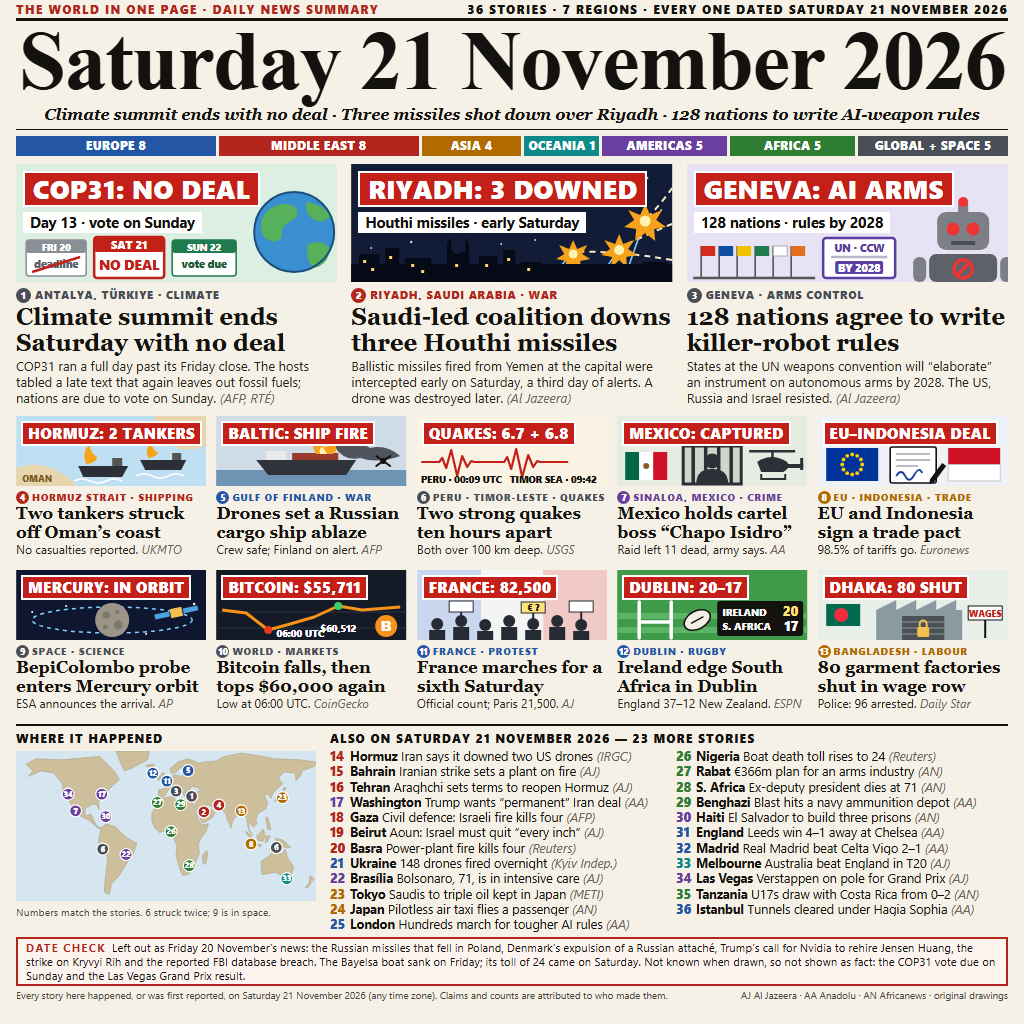
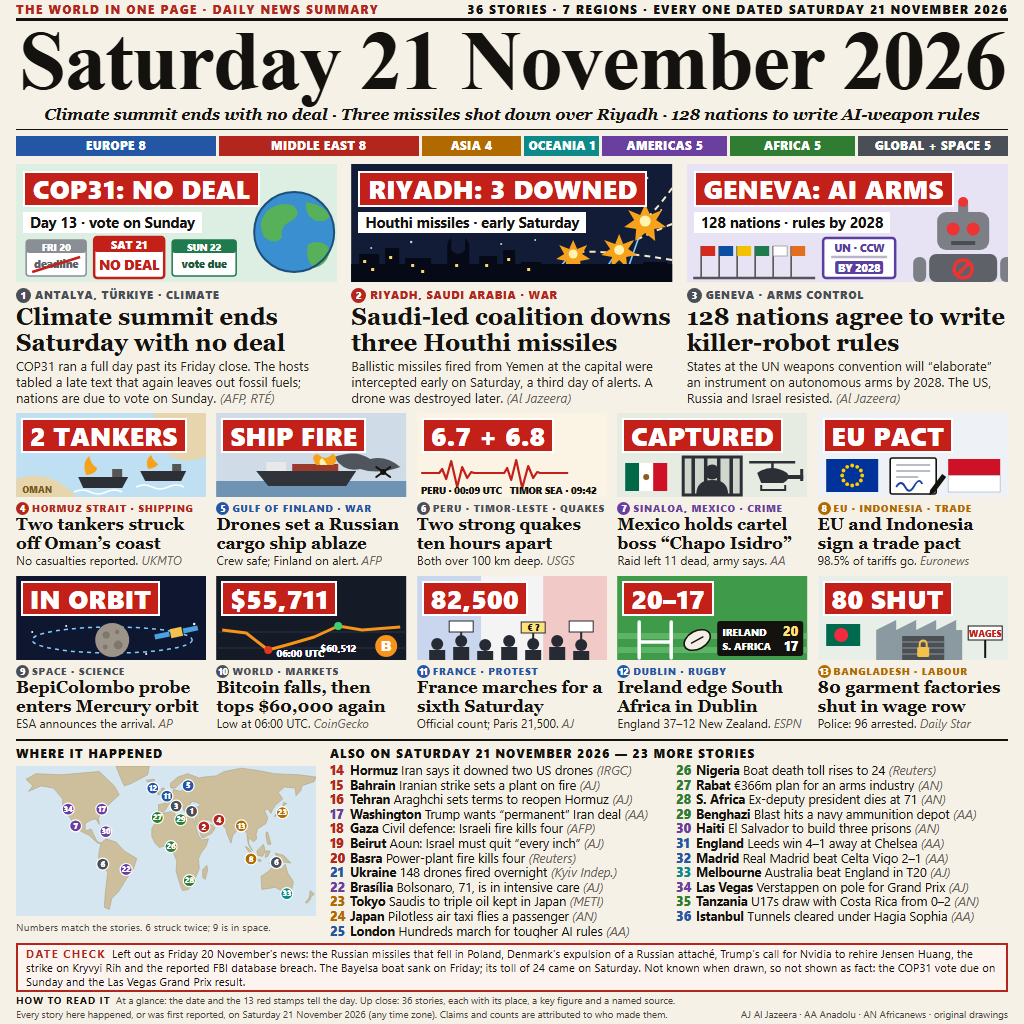
Large one-word stamps on the ten picture tiles, taller pictures, reader's guide
Each tile now carries a 26px stamp that reads at thumbnail size; the place
stays in the tag line under the picture.

Changed region(s): [[0.0, 0.4062, 1.0, 1.0]]

diff --git a/src/page.html b/src/page.html
@@ -35,7 +35,7 @@
   .src { color: #6a6459; font-style: italic; }
 
   /* Leads */
-  .leads { height: 246px; margin-top: 8px; display: flex; gap: 14px; }
+  .leads { height: 243px; margin-top: 8px; display: flex; gap: 14px; }
   .lead { flex: 1; min-width: 0; }
   .lead .pic { height: 118px; }
   .lead .stamp { font-size: 26px; line-height: 32px; padding: 0 8px; }
@@ -46,17 +46,17 @@
   .lead p { font-size: 13px; line-height: 16px; margin-top: 2px; color: #26231e; }
 
   /* Tiles */
-  .tiles { height: 300px; margin-top: 6px; display: grid; grid-template-columns: repeat(5, 1fr); grid-template-rows: 146px 146px; gap: 8px 10px; }
+  .tiles { height: 318px; margin-top: 6px; display: grid; grid-template-columns: repeat(5, 1fr); grid-template-rows: 155px 155px; gap: 8px 10px; }
   .tile { min-width: 0; }
-  .tile .pic { height: 70px; }
-  .tile .stamp { font-size: 15px; line-height: 21px; padding: 0 5px; left: 5px; top: 5px; }
+  .tile .pic { height: 84px; }
+  .tile .stamp { font-size: 26px; line-height: 31px; padding: 0 7px; left: 5px; top: 5px; }
   .tile .tag { font-size: 9.6px; line-height: 14px; margin-top: 4px; }
   .tile .n { width: 13px; height: 13px; line-height: 13px; font-size: 8.5px; margin-right: 3px; }
   .tile h3 { font-family: Georgia, serif; font-size: 17px; line-height: 19px; height: 38px; overflow: hidden; }
   .tile p { font-size: 12px; line-height: 15px; white-space: nowrap; overflow: hidden; color: #26231e; }
 
   /* Map and briefs */
-  .bottom { height: 208px; margin-top: 8px; border-top: 2px solid #14120e; padding-top: 5px; display: flex; gap: 14px; }
+  .bottom { height: 199px; margin-top: 8px; border-top: 2px solid #14120e; padding-top: 5px; display: flex; gap: 14px; }
   .bottom h4 { font-size: 11.5px; line-height: 15px; letter-spacing: 1.4px; font-weight: 800; }
   .mapbox { width: 300px; flex: none; }
   .mapbox svg { display: block; width: 300px; height: 150px; margin-top: 5px; }
@@ -64,14 +64,16 @@
   .briefs { flex: 1; min-width: 0; }
   .cols { display: flex; gap: 14px; margin-top: 2px; }
   .cols ul { flex: 1; min-width: 0; list-style: none; }
-  .cols li { font-size: 12.6px; line-height: 15.3px; white-space: nowrap; overflow: hidden; }
+  .cols li { font-size: 12.6px; line-height: 14.6px; white-space: nowrap; overflow: hidden; }
   .cols li i { font-style: normal; font-weight: 800; color: var(--c); display: inline-block; width: 20px; }
   .cols li b { font-weight: 700; }
 
   /* Date check and footer */
   .check { height: 49px; margin-top: 5px; border: 2px solid #b3261e; background: #fdf3ef; padding: 2px 8px; font-size: 11.4px; line-height: 14.2px; overflow: hidden; }
   .check b { color: #b3261e; letter-spacing: 1.2px; }
-  .foot { height: 17px; display: flex; justify-content: space-between; align-items: center; font-size: 9.8px; color: #4b463d; white-space: nowrap; }
+  .foot { height: 28px; margin-top: 1px; font-size: 9.8px; line-height: 13.5px; color: #4b463d; white-space: nowrap; }
+  .foot .row { display: flex; justify-content: space-between; }
+  .foot b { color: #14120e; letter-spacing: 1px; }
 </style>
 </head>
 <body>
@@ -178,105 +180,105 @@
 <div class="tiles">
   <!-- 4 Hormuz -->
   <div class="tile" style="--c:var(--me)">
-    <div class="pic"><svg viewBox="0 0 190 70">
-      <rect width="190" height="70" fill="#bfe0f2"/>
-      <path d="M190 0 V30 Q168 38 152 28 Q140 18 138 0z" fill="#e6d5ad"/><path d="M0 70 V52 Q24 44 44 56 Q56 64 60 70z" fill="#e6d5ad"/>
+    <div class="pic"><svg viewBox="0 -14 190 84">
+      <rect y="-14" width="190" height="84" fill="#bfe0f2"/>
+      <path d="M190 -14 V30 Q168 38 152 28 Q140 18 138 -14z" fill="#e6d5ad"/><path d="M0 70 V52 Q24 44 44 56 Q56 64 60 70z" fill="#e6d5ad"/>
       <text x="6" y="66" font-size="9" font-weight="800" fill="#7a5a1f" font-family="Segoe UI, Arial">OMAN</text>
       <path d="M62 50 h50 l-6 11 h-39z" fill="#2c2f36"/><rect x="96" y="42" width="10" height="8" fill="#555"/>
       <path d="M124 44 h46 l-5 10 h-36z" fill="#2c2f36"/><rect x="156" y="37" width="9" height="7" fill="#555"/>
       <path d="M70 48 q-5 -12 3 -19 q2 9 8 12 q-1 6 -11 7z" fill="#f7a21b"/><path d="M132 42 q-4 -9 3 -14 q2 6 7 9 q-2 4 -10 5z" fill="#f7a21b"/>
       <path d="M58 65 q8 -4 16 0 t16 0 t16 0 M120 60 q8 -4 16 0 t16 0 t16 0" stroke="#fff" stroke-width="1.6" fill="none"/>
-    </svg><div class="stamp">HORMUZ: 2 TANKERS</div></div>
+    </svg><div class="stamp">2 TANKERS</div></div>
     <div class="tag"><span class="n">4</span>HORMUZ STRAIT · SHIPPING</div>
     <h3>Two tankers struck off Oman’s coast</h3>
     <p>No casualties reported. <span class="src">UKMTO</span></p>
   </div>
   <!-- 5 Gulf of Finland -->
   <div class="tile" style="--c:var(--eu)">
-    <div class="pic"><svg viewBox="0 0 190 70">
-      <rect width="190" height="70" fill="#cfdbe6"/><rect y="54" width="190" height="16" fill="#6f93b3"/>
+    <div class="pic"><svg viewBox="0 -14 190 84">
+      <rect y="-14" width="190" height="84" fill="#cfdbe6"/><rect y="54" width="190" height="16" fill="#6f93b3"/>
       <path d="M118 30 q22 -8 36 2 q16 -4 30 8 q-22 8 -40 2 q-16 4 -26 -12z" fill="#3a3d44" opacity=".85"/>
       <path d="M40 44 h100 l-10 15 h-78z" fill="#30333a"/><rect x="50" y="35" width="20" height="9" fill="#e9e9e9"/><rect x="76" y="37" width="46" height="7" fill="#9a3b2e"/>
       <path d="M100 38 q-7 -10 2 -11 q3 4 8 4 q7 -3 6 -5 q8 6 1 12z" fill="#f7a21b"/><path d="M104 38 q-2 -5 2 -7 q3 3 5 7z" fill="#fff3b0"/>
       <g stroke="#14120e" stroke-width="2" stroke-linecap="round"><path d="M160 40 l14 10 M174 40 l-14 10"/></g><circle cx="167" cy="45" r="3" fill="#14120e"/>
-    </svg><div class="stamp">BALTIC: SHIP FIRE</div></div>
+    </svg><div class="stamp">SHIP FIRE</div></div>
     <div class="tag"><span class="n">5</span>GULF OF FINLAND · WAR</div>
     <h3>Drones set a Russian cargo ship ablaze</h3>
     <p>Crew safe; Finland on alert. <span class="src">AFP</span></p>
   </div>
   <!-- 6 Quakes -->
   <div class="tile" style="--c:var(--gl)">
-    <div class="pic"><svg viewBox="0 0 190 70">
-      <rect width="190" height="70" fill="#fbf3e3"/>
+    <div class="pic"><svg viewBox="0 -14 190 84">
+      <rect y="-14" width="190" height="84" fill="#fbf3e3"/>
       <path d="M4 46 h18 l3 -4 l4 10 l5 -18 l6 26 l5 -20 l5 11 l4 -6 l3 1 h30 l3 -5 l4 12 l5 -20 l6 28 l6 -22 l5 12 l4 -6 l3 1 h28" stroke="#c4201a" stroke-width="2.2" fill="none" stroke-linejoin="round"/>
       <g font-family="Segoe UI, Arial" font-weight="800" font-size="9.5" text-anchor="middle" fill="#14120e">
         <text x="44" y="67">PERU · 00:09 UTC</text><text x="136" y="67">TIMOR SEA · 09:42</text>
       </g>
-    </svg><div class="stamp">QUAKES: 6.7 + 6.8</div></div>
+    </svg><div class="stamp">6.7 + 6.8</div></div>
     <div class="tag"><span class="n">6</span>PERU · TIMOR-LESTE · QUAKES</div>
     <h3>Two strong quakes ten hours apart</h3>
     <p>Both over 100 km deep. <span class="src">USGS</span></p>
   </div>
   <!-- 7 Mexico -->
   <div class="tile" style="--c:var(--am)">
-    <div class="pic"><svg viewBox="0 0 190 70">
-      <rect width="190" height="70" fill="#e6ece2"/>
+    <div class="pic"><svg viewBox="0 -14 190 84">
+      <rect y="-14" width="190" height="84" fill="#e6ece2"/>
       <rect x="8" y="36" width="14" height="28" fill="#006847"/><rect x="22" y="36" width="14" height="28" fill="#fff"/><rect x="36" y="36" width="14" height="28" fill="#ce1126"/><circle cx="29" cy="50" r="3" fill="#8a5a1f"/>
       <rect x="66" y="30" width="58" height="38" fill="#cfd6cc" stroke="#2c2f36" stroke-width="3"/>
       <circle cx="95" cy="45" r="7.5" fill="#2c2f36"/><path d="M79 68 q0 -15 16 -15 q16 0 16 15z" fill="#2c2f36"/>
       <g stroke="#2c2f36" stroke-width="3.5"><path d="M76 30 V68 M88.5 30 V68 M101.5 30 V68 M114 30 V68"/></g>
       <g fill="#2c2f36"><path d="M140 46 q14 -10 30 0 q4 6 -4 10 h-22z"/><rect x="166" y="48" width="20" height="4"/><rect x="183" y="42" width="3" height="12"/><rect x="132" y="34" width="46" height="2.5"/><rect x="154" y="35" width="2.5" height="8"/><path d="M144 58 v5 h24 v-5" fill="none" stroke="#2c2f36" stroke-width="2"/></g>
-    </svg><div class="stamp">MEXICO: CAPTURED</div></div>
+    </svg><div class="stamp">CAPTURED</div></div>
     <div class="tag"><span class="n">7</span>SINALOA, MEXICO · CRIME</div>
     <h3>Mexico holds cartel boss “Chapo Isidro”</h3>
     <p>Raid left 11 dead, army says. <span class="src">AA</span></p>
   </div>
   <!-- 8 EU-Indonesia -->
   <div class="tile" style="--c:var(--as)">
-    <div class="pic"><svg viewBox="0 0 190 70">
-      <rect width="190" height="70" fill="#eef1f6"/>
+    <div class="pic"><svg viewBox="0 -14 190 84">
+      <rect y="-14" width="190" height="84" fill="#eef1f6"/>
       <rect x="8" y="32" width="52" height="33" fill="#003399"/>
       <g fill="#ffcc00"><circle cx="34" cy="38.5" r="1.9"/><circle cx="39" cy="39.8" r="1.9"/><circle cx="42.7" cy="43.5" r="1.9"/><circle cx="44" cy="48.5" r="1.9"/><circle cx="42.7" cy="53.5" r="1.9"/><circle cx="39" cy="57.2" r="1.9"/><circle cx="34" cy="58.5" r="1.9"/><circle cx="29" cy="57.2" r="1.9"/><circle cx="25.3" cy="53.5" r="1.9"/><circle cx="24" cy="48.5" r="1.9"/><circle cx="25.3" cy="43.5" r="1.9"/><circle cx="29" cy="39.8" r="1.9"/></g>
       <rect x="130" y="32" width="52" height="16.5" fill="#ce1126"/><rect x="130" y="48.5" width="52" height="16.5" fill="#fff" stroke="#b9bcc4" stroke-width=".8"/>
       <rect x="72" y="31" width="46" height="36" rx="2" fill="#fff" stroke="#14120e" stroke-width="1.6"/>
       <path d="M78 38 h34 M78 44 h34 M78 50 h22" stroke="#b9bcc4" stroke-width="2"/><path d="M78 60 q5 -8 9 0 t9 -1 t8 -2" stroke="#1b3fa0" stroke-width="1.8" fill="none"/>
       <path d="M112 63 l12 -16 l4 3 l-12 16 l-5 2z" fill="#14120e"/>
-    </svg><div class="stamp">EU–INDONESIA DEAL</div></div>
+    </svg><div class="stamp">EU PACT</div></div>
     <div class="tag"><span class="n">8</span>EU · INDONESIA · TRADE</div>
     <h3>EU and Indonesia sign a trade pact</h3>
     <p>98.5% of tariffs go. <span class="src">Euronews</span></p>
   </div>
   <!-- 9 Mercury -->
   <div class="tile" style="--c:var(--gl)">
-    <div class="pic"><svg viewBox="0 0 190 70">
-      <rect width="190" height="70" fill="#0f1730"/>
+    <div class="pic"><svg viewBox="0 -14 190 84">
+      <rect y="-14" width="190" height="84" fill="#0f1730"/>
       <g fill="#fff"><circle cx="178" cy="34" r="1.2"/><circle cx="16" cy="42" r="1"/><circle cx="130" cy="64" r="1"/><circle cx="50" cy="36" r="1"/></g>
       <ellipse cx="96" cy="50" rx="80" ry="13" fill="none" stroke="#7fd0ff" stroke-width="1.5" stroke-dasharray="4 4"/>
       <circle cx="96" cy="50" r="17" fill="#9c9488"/><circle cx="90" cy="45" r="3.6" fill="#7e776c"/><circle cx="102" cy="55" r="4.4" fill="#7e776c"/><circle cx="101" cy="42" r="2.2" fill="#7e776c"/><circle cx="89" cy="57" r="2.4" fill="#7e776c"/>
       <g transform="rotate(-12 160 42)"><rect x="154" y="38" width="12" height="9" fill="#f2c14e"/><rect x="138" y="40" width="15" height="5" fill="#4aa3e0"/><rect x="167" y="40" width="15" height="5" fill="#4aa3e0"/></g>
-    </svg><div class="stamp">MERCURY: IN ORBIT</div></div>
+    </svg><div class="stamp">IN ORBIT</div></div>
     <div class="tag"><span class="n">9</span>SPACE · SCIENCE</div>
     <h3>BepiColombo probe enters Mercury orbit</h3>
     <p>ESA announces the arrival. <span class="src">AP</span></p>
   </div>
   <!-- 10 Bitcoin -->
   <div class="tile" style="--c:var(--gl)">
-    <div class="pic"><svg viewBox="0 0 190 70">
-      <rect width="190" height="70" fill="#141a26"/>
+    <div class="pic"><svg viewBox="0 -14 190 84">
+      <rect y="-14" width="190" height="84" fill="#141a26"/>
       <path d="M0 42 h190 M0 58 h190" stroke="#2b3345" stroke-width="1"/>
       <path d="M6 40 L30 43 L52 60 L74 54 L98 47 L122 36 L146 40 L184 37" stroke="#f7931a" stroke-width="3" fill="none" stroke-linejoin="round"/>
       <circle cx="52" cy="60" r="4" fill="#e3361b"/><circle cx="122" cy="36" r="4" fill="#3ccf6e"/>
       <g font-family="Segoe UI, Arial" font-weight="800" font-size="9.5" fill="#fff"><text x="60" y="67">06:00 UTC</text><text x="104" y="62">$60,512</text></g>
       <circle cx="170" cy="56" r="11" fill="#f7931a"/><text x="170" y="61" font-size="14" font-weight="800" fill="#fff" text-anchor="middle" font-family="Arial">B</text>
-    </svg><div class="stamp">BITCOIN: $55,711</div></div>
+    </svg><div class="stamp">$55,711</div></div>
     <div class="tag"><span class="n">10</span>WORLD · MARKETS</div>
     <h3>Bitcoin falls, then tops $60,000 again</h3>
     <p>Low at 06:00 UTC. <span class="src">CoinGecko</span></p>
   </div>
   <!-- 11 France -->
   <div class="tile" style="--c:var(--eu)">
-    <div class="pic"><svg viewBox="0 0 190 70">
-      <rect width="64" height="70" fill="#c9d6ee"/><rect x="64" width="62" height="70" fill="#f4f4f4"/><rect x="126" width="64" height="70" fill="#f1c9c6"/>
+    <div class="pic"><svg viewBox="0 -14 190 84">
+      <rect y="-14" width="64" height="84" fill="#c9d6ee"/><rect x="64" y="-14" width="62" height="84" fill="#f4f4f4"/><rect x="126" y="-14" width="64" height="84" fill="#f1c9c6"/>
       <g fill="#262a33">
         <circle cx="20" cy="54" r="6"/><rect x="12" y="60" width="16" height="10"/><circle cx="44" cy="51" r="6"/><rect x="36" y="57" width="16" height="13"/>
         <circle cx="68" cy="55" r="6"/><rect x="60" y="61" width="16" height="9"/><circle cx="92" cy="51" r="6"/><rect x="84" y="57" width="16" height="13"/>
@@ -286,34 +288,34 @@
       <g stroke="#262a33" stroke-width="2"><path d="M44 49 V40 M116 52 V41 M164 52 V40"/></g>
       <rect x="32" y="31" width="24" height="11" fill="#fff" stroke="#262a33"/><rect x="104" y="32" width="24" height="11" fill="#ffe27a" stroke="#262a33"/><rect x="152" y="31" width="24" height="11" fill="#fff" stroke="#262a33"/>
       <text x="116" y="41" font-size="9" font-weight="800" text-anchor="middle" font-family="Segoe UI, Arial" fill="#14120e">€ ?</text>
-    </svg><div class="stamp">FRANCE: 82,500</div></div>
+    </svg><div class="stamp">82,500</div></div>
     <div class="tag"><span class="n">11</span>FRANCE · PROTEST</div>
     <h3>France marches for a sixth Saturday</h3>
     <p>Official count; Paris 21,500. <span class="src">AJ</span></p>
   </div>
   <!-- 12 Rugby -->
   <div class="tile" style="--c:var(--eu)">
-    <div class="pic"><svg viewBox="0 0 190 70">
-      <rect width="190" height="70" fill="#3f9a4a"/><path d="M0 46 h190 M0 60 h190" stroke="#5db366" stroke-width="6"/>
+    <div class="pic"><svg viewBox="0 -14 190 84">
+      <rect y="-14" width="190" height="84" fill="#3f9a4a"/><path d="M0 46 h190 M0 60 h190" stroke="#5db366" stroke-width="6"/>
       <g stroke="#fff" stroke-width="3.5" stroke-linecap="round"><path d="M22 68 V32 M54 68 V32 M22 52 H54"/></g>
       <g transform="rotate(-28 80 50)"><ellipse cx="80" cy="50" rx="14" ry="9" fill="#f4efe4" stroke="#14120e" stroke-width="1.6"/><path d="M73 50 h14" stroke="#14120e" stroke-width="1.4"/></g>
       <rect x="100" y="31" width="86" height="35" rx="3" fill="#14120e"/>
       <g font-family="Segoe UI, Arial" font-weight="800" fill="#fff"><text x="105" y="45.5" font-size="10">IRELAND</text><text x="181" y="46" font-size="13" text-anchor="end" fill="#ffe27a">20</text><text x="105" y="60" font-size="10">S. AFRICA</text><text x="181" y="60.5" font-size="13" text-anchor="end">17</text></g>
-    </svg><div class="stamp">DUBLIN: 20–17</div></div>
+    </svg><div class="stamp">20–17</div></div>
     <div class="tag"><span class="n">12</span>DUBLIN · RUGBY</div>
     <h3>Ireland edge South Africa in Dublin</h3>
     <p>England 37–12 New Zealand. <span class="src">ESPN</span></p>
   </div>
   <!-- 13 Bangladesh -->
   <div class="tile" style="--c:var(--as)">
-    <div class="pic"><svg viewBox="0 0 190 70">
-      <rect width="190" height="70" fill="#e8efe9"/>
+    <div class="pic"><svg viewBox="0 -14 190 84">
+      <rect y="-14" width="190" height="84" fill="#e8efe9"/>
       <rect x="8" y="34" width="34" height="22" fill="#006a4e"/><circle cx="23" cy="45" r="7" fill="#f42a41"/>
       <path d="M58 40 l20 -10 v10 l20 -10 v10 l20 -10 v10 l20 -10 v10 h6 v30 h-86z" fill="#8a9aa0"/>
       <rect x="84" y="46" width="42" height="24" fill="#4b5055"/><path d="M84 52 h42 M84 58 h42 M84 64 h42" stroke="#6d7379" stroke-width="2"/>
       <rect x="99" y="57" width="12" height="10" rx="1.5" fill="#f2c14e"/><path d="M101.5 57 v-3 a3.5 3.5 0 0 1 7 0 v3" fill="none" stroke="#f2c14e" stroke-width="2"/>
       <rect x="150" y="36" width="34" height="14" fill="#fff" stroke="#14120e"/><text x="167" y="46.5" font-size="9" font-weight="800" text-anchor="middle" font-family="Segoe UI, Arial" fill="#c4201a">WAGES</text><path d="M167 50 V68" stroke="#14120e" stroke-width="2"/>
-    </svg><div class="stamp">DHAKA: 80 SHUT</div></div>
+    </svg><div class="stamp">80 SHUT</div></div>
     <div class="tag"><span class="n">13</span>BANGLADESH · LABOUR</div>
     <h3>80 garment factories shut in wage row</h3>
     <p>Police: 96 arrested. <span class="src">Daily Star</span></p>
@@ -362,7 +364,10 @@
 
 <div class="check"><b>DATE CHECK</b>&nbsp; Left out as Friday 20 November’s news: the Russian missiles that fell in Poland, Denmark’s expulsion of a Russian attaché, Trump’s call for Nvidia to rehire Jensen Huang, the strike on Kryvyi Rih and the reported FBI database breach. The Bayelsa boat sank on Friday; its toll of 24 came on Saturday. Not known when drawn, so not shown as fact: the COP31 vote due on Sunday and the Las Vegas Grand Prix result.</div>
 
-<div class="foot"><span>Every story here happened, or was first reported, on Saturday 21 November 2026 (any time zone). Claims and counts are attributed to who made them.</span><span>AJ Al Jazeera · AA Anadolu · AN Africanews · original drawings</span></div>
+<div class="foot">
+  <div><b>HOW TO READ IT</b>&nbsp; At a glance: the date and the 13 red stamps tell the day. Up close: 36 stories, each with its place, a key figure and a named source.</div>
+  <div class="row"><span>Every story here happened, or was first reported, on Saturday 21 November 2026 (any time zone). Claims and counts are attributed to who made them.</span><span>AJ Al Jazeera · AA Anadolu · AN Africanews · original drawings</span></div>
+</div>
 
 <script>
 // Fit the date to the full width of the page.
